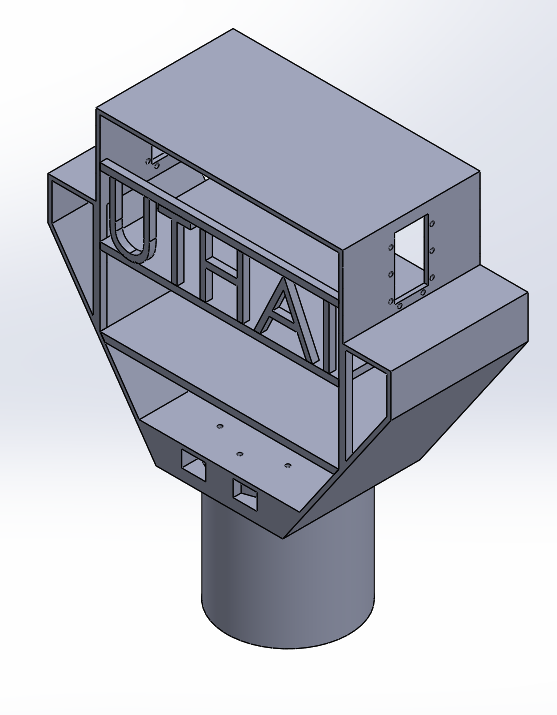
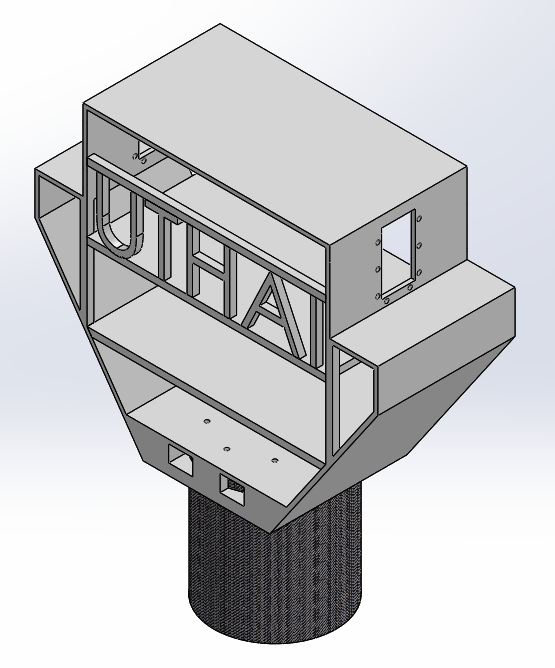
update 533

diff --git a/chapter4/hardware.tex b/chapter4/hardware.tex
@@ -408,24 +408,38 @@
   \label{fig:FSR_graph}
 \end{figure}
 
-\subsection{การออกแบบลำตัว}
+\clearpage
+\subsection{การออกแบบโครงสร้างลำตัว}
 ลำตัวของหุ่นยนต์นั้นจะใช้สำหรับติดตั้งหน่วยประมวลผลควบคุมระดับต่ำและระดับสูง IMU รวมไปถึงบอร์ดแปลงไฟ 12v จากแบตเตอรี่
 ให้เหลือ 5V เพื่อจ่ายไฟให้กับระบบ ละยังคงต้องจัดเก็บแบตเตอรี่สำหรับทำงานไร้สายได้อีกด้วย 
 \subsubsection{การออกแบบลำตัวครั้งที่ 1}
 การออกแบบครั้งนี้ได้ออกแบบให้ลำตัวนั้นขึ้นรูปด้วยเครื่องพิมพ์ 3 มิติ เพื่อให้ง่ายสำหรับผู้ต่อยอดที่มีเครื่องพิมพ์เป็นของตนเอง สามารถพิมพ์
 และนำมาประกอบได้ โดยส่วนของเอวนั้นจะใช้เป็นท่อคาร์บอนไฟเบอร์ขนาดเส้นผ่านศูนย์กลางขนาด 91 มิลลิเมตร เพื่อให้เหมาะสมกับชิ้นงาน
-และเชื่อมยึดติดกันด้วยสกรูกับลำตัวและส่วนเอวว
+และเชื่อมยึดติดกันด้วยสกรูกับลำตัวและส่วนเอว
 \begin{figure}[h!]
   \centering
-  \includegraphics[width=0.6\textwidth]{chapter4/images/troso_old.PNG}
+  \includegraphics[width=0.4\textwidth]{chapter4/images/troso_old.PNG}
   \caption{รูปภาพแสดงตัวของหุ่นยนต์ที่ออกแบบเพื่อขึ้นรูปด้วยเครื่องพิมพ์ 3 มิติ}
   \label{fig:torso_old}
 \end{figure}
-แต่เมื่อทำการทดลองหาค่ามวลในโปรแกรม solidwork แล้ว ได้ผลน้ำหนักคือ 650 กรัม ซึ่งเป็นน้ำหนักที่มากเกินไปอาจส่งผลทำให้
+
+แต่เมื่อทำการทดลองหาค่ามวลในโปรแกรม solidwork แล้ว ได้ผลน้ำหนักคือ 711 กรัม ซึ่งเป็นน้ำหนักที่มากเกินไปอาจส่งผลทำให้
 มอเตอร์รับน้ำหนักของตัวมากเกินไป ดังนั้นจึงเป็นผลทำให้ต้องเปลี่ยนการออกแบบให้เบาลงกว่าเดิม คือลดขนาดของตัวที่ขึ้นรูปด้วยเครื่องพิมพ์ 3 มิติ
 ลงและใช้วัสดุผสมระหว่างคาร์บอนไฟเบอร์มากขึ้น ซึ่งจะยังคงได้ความแข็งแรงและความเบาอีกด้วย
 
-\subsubsection{การออกแบบลำตัวครั้งที่ 2}
+\subsubsection{การออกแบบลโครงสร้างำตัวครั้งที่ 2}
+จากปัญหาเรื่องน้ำหนักของชิ้นส่วนตัวของการออกแบบครั้งที่ 1 ได้แก้ไขโดยลดขนาดของส่วนพิมพ์ 3 มิติลงซึ่งจะแยกชิ้นส่วนออกเป็น 2 ส่วน คือส่วนหน้าและส่วนหลัง
+และใช้การยึดกับท่อคาร์บอนไฟเบอร์ซึ่งเป็นส่วนเอวด้วยการบีบซึ่งทำโดยการร้อยสกรูผ่านช่องที่ทำไว้สำเร็จบนตัวชิ้นงานพิมพ์ 3 มิติ แล้วขันให้ชิ้นงานมาประกบเข้าหากัน
+\begin{figure}[h!]
+  \centering
+  \includegraphics[width=0.4\textwidth]{chapter4/images/troso_new.PNG}
+  \caption{รูปภาพแสดงตัวของหุ่นยนต์ที่ออกแบบเพื่อขึ้นรูปด้วยเครื่องพิมพ์ 3 มิติ(ใหม่)}
+  \label{fig:torso_new}
+\end{figure}
+ซึ่งน้ำหนักที่วิเคราะห์ได้โดยโปรแกรม solidwork นั้นได้ค่าเท่ากับ 293 กรัม ซึ่งน้อยกว่าการออกแบบครั้งแรกถึง 2.4 เท่า ซึ่งมีน้ำหนักมากถึง 711 กรัม
+\subsubsection*{การยึดลำตัวกับสะโพก}
+การยึดลำตัวกับสะโพกนั้นจะใช้รูปแบบการยึดโดยการถ่างวัสดุที่ทำขึ้นมาเพื่อยึดลำตัวกับสะโพกออกผ่านสกรู 1 ตัวที่ออกแบบไว้โดยสกรูตัวนี้จะทำหน้าที่ดึงให้ถ้วยของตัวถ่าง
+เคลื่อนที่ลงมาและในขณะนั้นเองตัวถ่างด้านนอกอีก 3 ตัว จะค่อยๆขยับออกถ ่างให้มีแรงบีบกับขอบท่อคาร์บอนไฟเบอร์และยึดกันอย่างแน่นตรึง
 
 \subsubsection*{การติดตั้งบอร์ดควบคุมและแบตเตอรี่}
 
